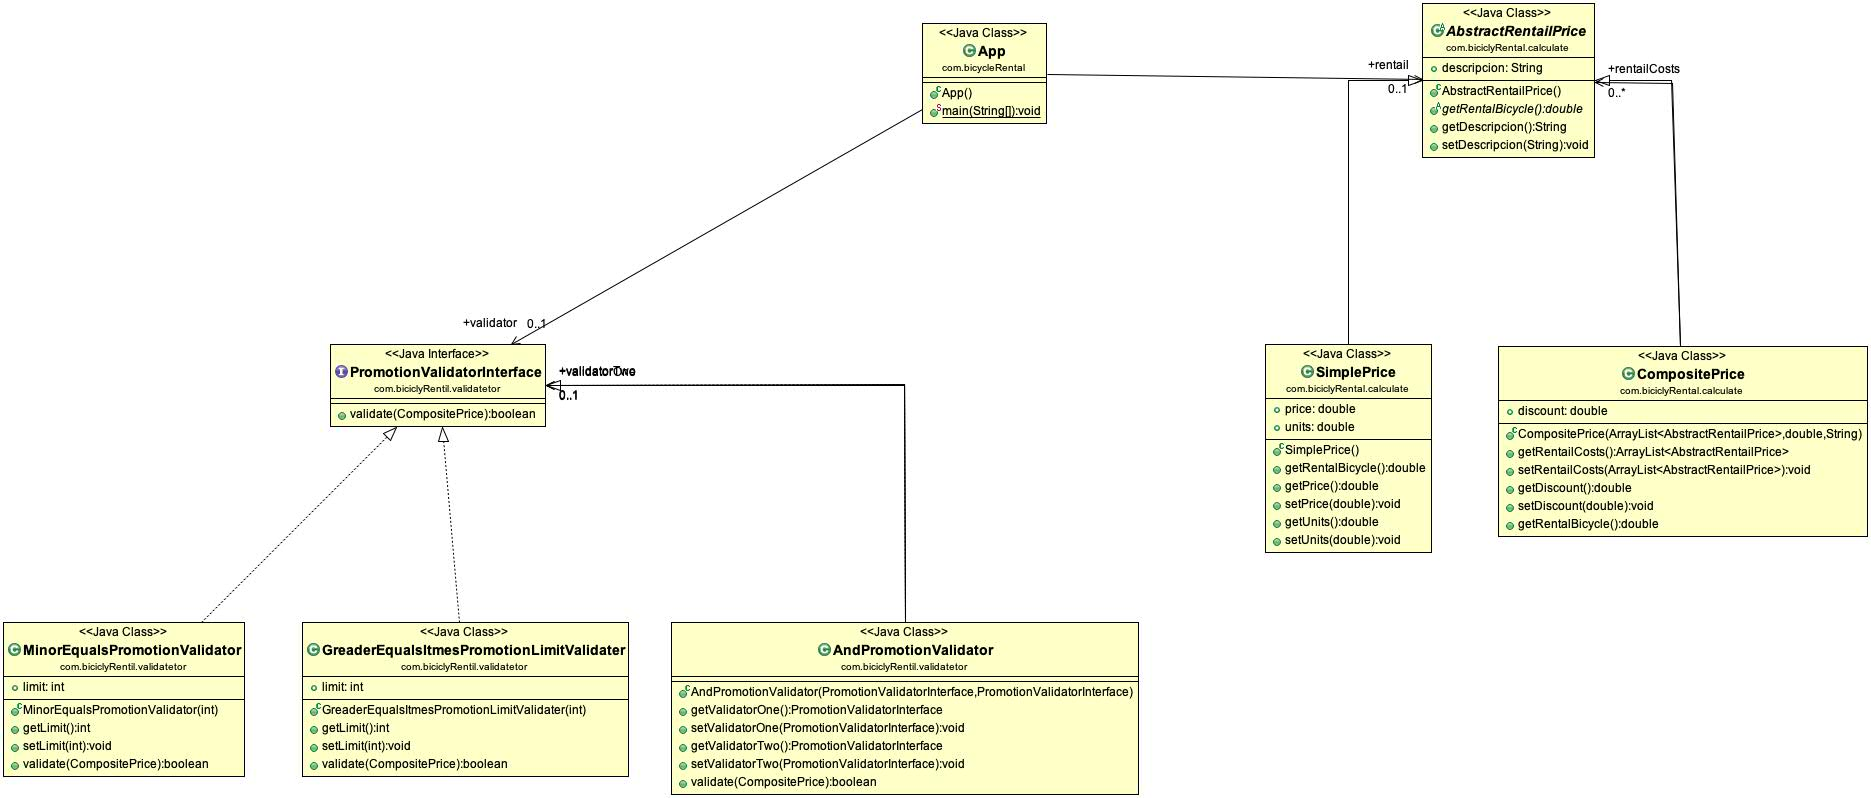
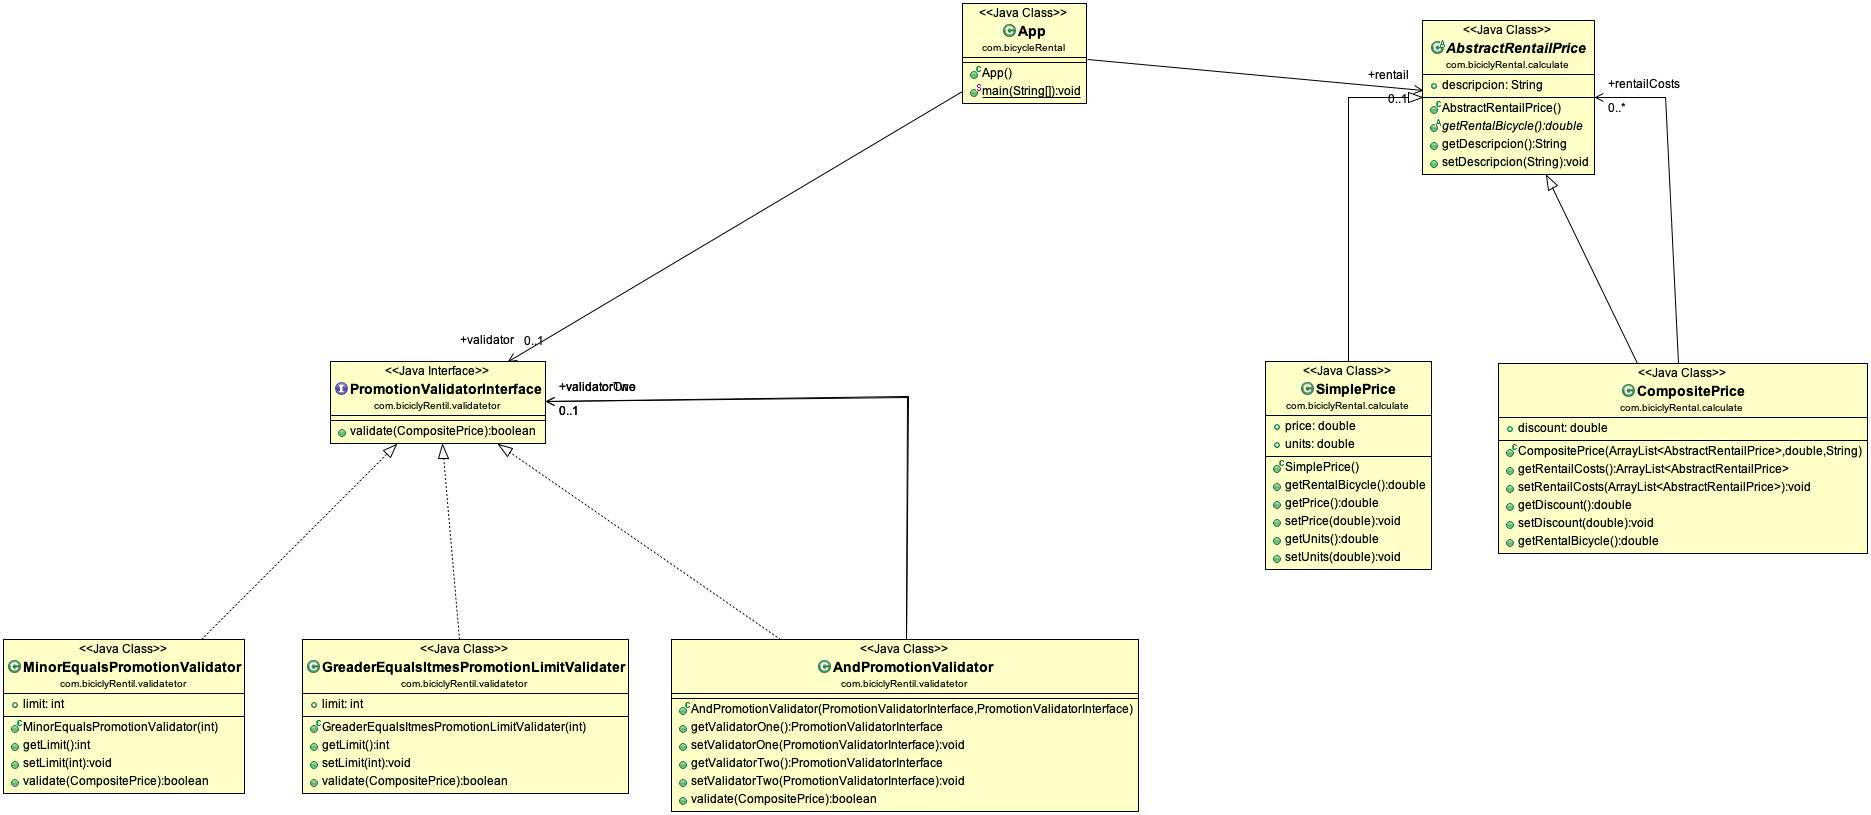
CAMBIOS EN EL DIAGRAMA

diff --git a/bicycleRental/src/main/java/com/bicycleRental/App.java b/bicycleRental/src/main/java/com/bicycleRental/App.java
@@ -16,6 +16,9 @@ import com.biciclyRentil.validatetor.PromotionValidatorInterface;
  */
 public class App 
 {
+	//DSOLO CREE LOS ATRIBUTOS PARA QUE APAREZCAN EN EL DIAGRAMA UML GENERADO
+	public AbstractRentailPrice rentail;
+	public PromotionValidatorInterface validator;
 	
     public static void main( String[] args )
     {
